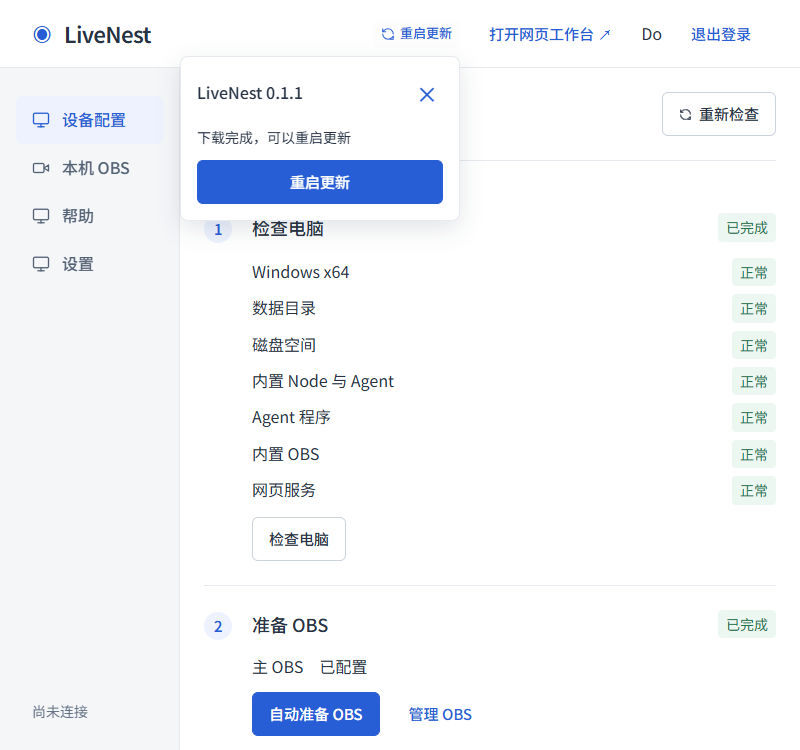
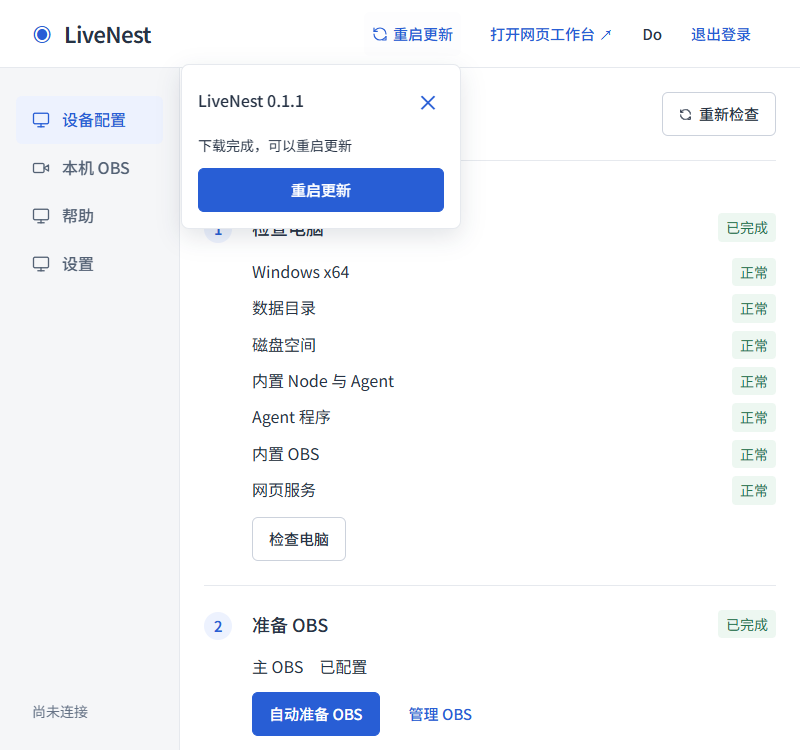
ui(desktop-header)：统一顶部更新与账号操作的文字对齐

diff --git a/desktop/app/page.tsx b/desktop/app/page.tsx
@@ -54,7 +54,7 @@ function Desktop({ logout }: { logout: () => Promise<void> }) {
     if (!activity) return null;
     return <SetupFeedback activity={activity} now={now} disabled={!!busy} help={() => setPage("帮助")} retry={() => { if (activity.step === 2) void act("prepare"); else void act(activity.step === 1 ? "check" : state?.paired ? "start" : "pair", { invitation }); }} />;
   }
-  return <><header className="app-header"><div className="header-container"><div className="brand-section"><span aria-hidden="true" style={{ color: "var(--accent-primary)", fontSize: 24 }}>◉</span><span className="brand-name">LiveNest</span><span className="brand-tag">Studio</span></div><div className="desktop-actions">{state && <UpdateEntry update={state.update} busy={!!busy} act={act} error={state.activity?.action === "update-install" && state.activity.status === "failed" ? state.activity.message : undefined} />}<button className="btn-ghost" onClick={() => void act("web")}>打开网页工作台 ↗</button><span>Do</span><button className="btn-ghost" onClick={() => void logout()}>退出登录</button></div></div></header>
+  return <><header className="app-header"><div className="header-container"><div className="brand-section"><span aria-hidden="true" style={{ color: "var(--accent-primary)", fontSize: 24 }}>◉</span><span className="brand-name">LiveNest</span><span className="brand-tag">Studio</span></div><div className="desktop-actions desktop-header-actions">{state && <UpdateEntry update={state.update} busy={!!busy} act={act} error={state.activity?.action === "update-install" && state.activity.status === "failed" ? state.activity.message : undefined} />}<button className="btn-ghost" onClick={() => void act("web")}>打开网页工作台 ↗</button><span>Do</span><button className="btn-ghost" onClick={() => void logout()}>退出登录</button></div></div></header>
     <div className="workspace-shell"><aside className="workspace-sidebar"><nav aria-label="桌面导航">{pages.map(p => <button key={p} className={"sidebar-link desktop-nav " + (p === page ? "is-active" : "")} onClick={() => setPage(p)}>{p === "本机 OBS" ? <VideoIcon /> : <DeviceIcon />}<span>{p}</span></button>)}</nav><div className="desktop-status"><span className={"device-state " + (state?.online ? "online" : "")}>{state?.online ? "设备在线" : state?.agentRunning ? "正在连接" : "尚未连接"}</span></div></aside>
     <main className="main-wrapper"><div className="workspace-heading"><h1>{page}</h1>{page === "设备配置" && <button disabled={busy} onClick={() => void act("check")}><RefreshIcon />重新检查</button>}</div>
     {!inline && (error || state?.message) && <div className="banner error" role="alert">{error || state?.message}<button onClick={() => setPage("帮助")}>查看帮助</button></div>}

diff --git a/desktop/app/desktop.css b/desktop/app/desktop.css
@@ -54,3 +54,9 @@
 .desktop-update-heading button { min-height: 32px; min-width: 32px; padding: 2px; font-size: 22px; }
 .desktop-update-panel p { margin: 0; font-size: 14px; overflow-wrap: anywhere; }
 .desktop-update-panel progress { width: 100%; accent-color: var(--accent-primary); }
+
+/* 顶部文字使用同一行框，避免更新入口、操作按钮与账号混用尺寸。 */
+.desktop-header-actions { flex-wrap: nowrap; gap: 12px; font-size: 15px; font-weight: 500; line-height: 24px; }
+.desktop-header-actions > button, .desktop-header-actions > span { display: inline-flex; align-items: center; height: 44px; min-height: 44px; font: inherit; line-height: 24px; white-space: nowrap; }
+.desktop-header-actions > button { padding-block: 9px; }
+.desktop-header-actions .desktop-update-entry svg { width: 16px; height: 16px; }

diff --git a/docs/desktop/OBS准备反馈修复.md b/docs/desktop/OBS准备反馈修复.md
@@ -47,6 +47,8 @@ Windows CI 首轮发现原生镜像路径比较遗漏短路径形式；补充通
 
 ![设置页窄窗口](screenshots/settings-narrow.png)
 
+顶部更新入口、工作台按钮、账号和退出按钮统一为 15px 字号、24px 行高、44px 控件高度；浏览器检查同一排文字和控件对齐。
+
 ## 主界面更新入口示例
 
 参考 Threadline：仅发现版本后出现标题栏小入口，点击才打开详情；下载完成不自动展开或安装。设置页与浮层共用动作，保留原有宿主维护保护。浏览器示例验证显隐、Escape 返回焦点、外部点击关闭、下载进度、完成后保持收起、错误重试及窄窗口位置。
